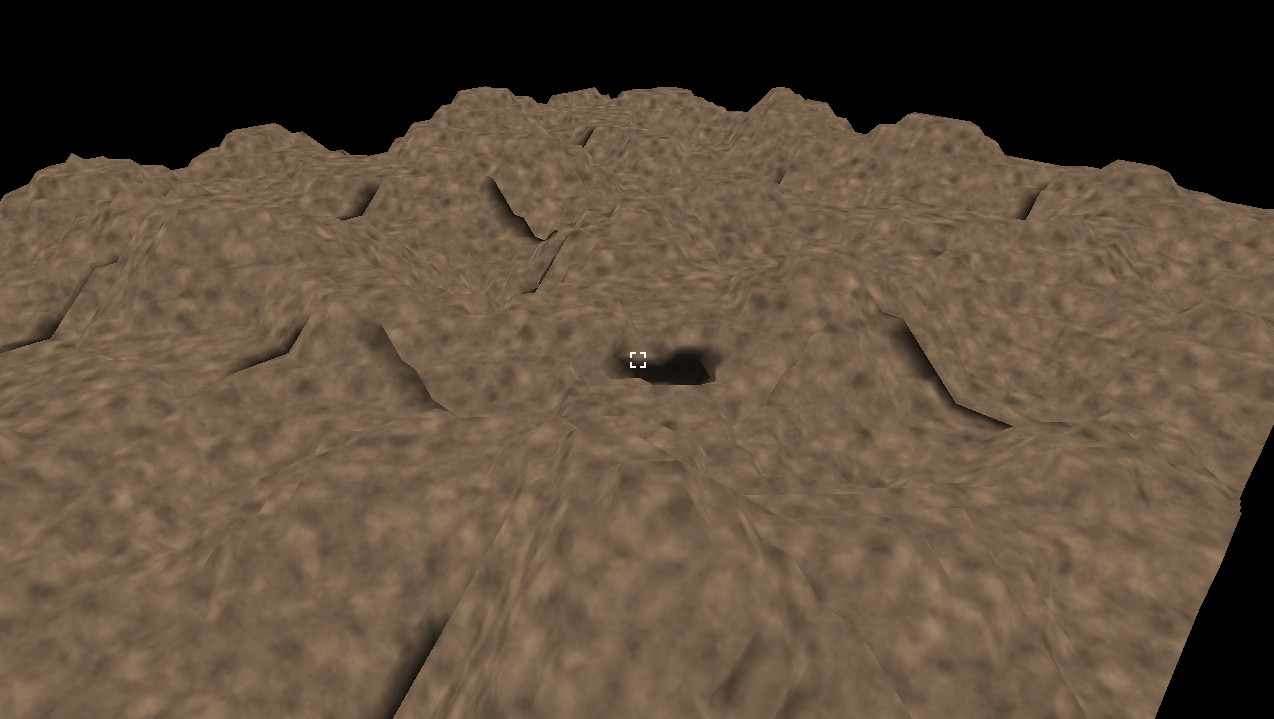
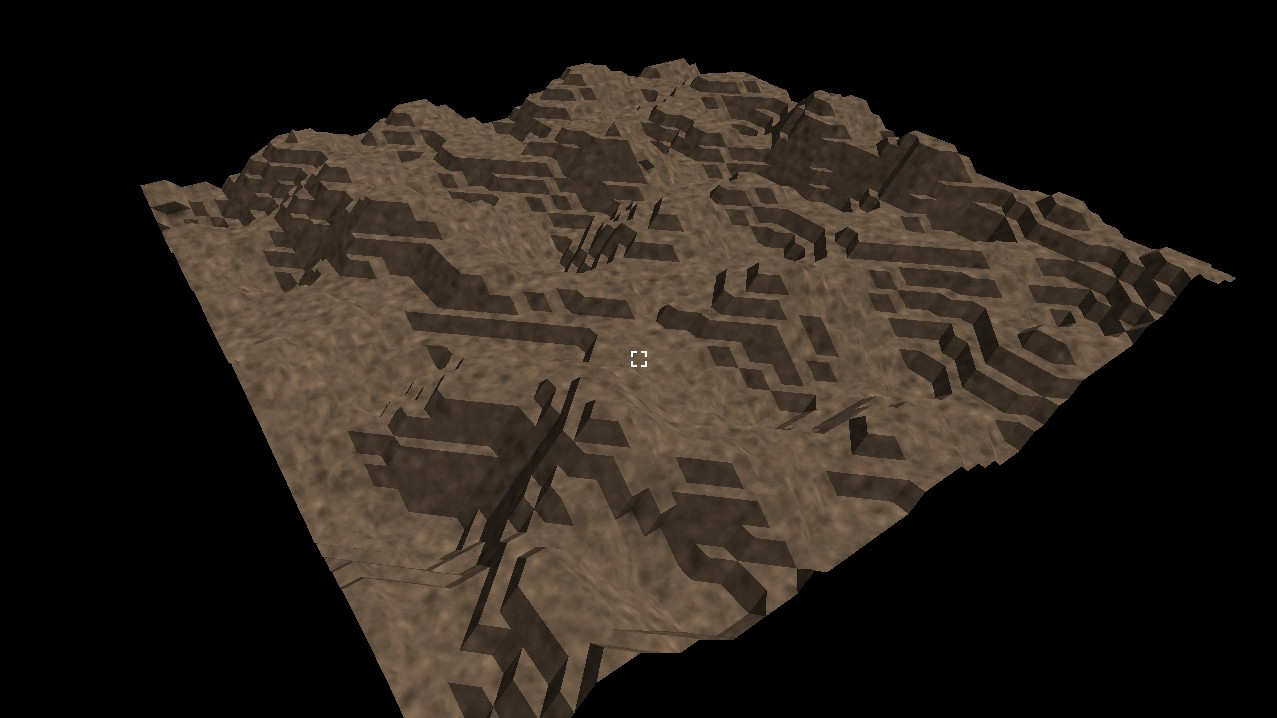
Исправлено освещение

diff --git a/SOURCE/renderer.cpp b/SOURCE/renderer.cpp
@@ -256,7 +256,10 @@ gl::Mesh* renderer::renderChunk(World* world, glm::uvec2 chunkIndex)
   if(world == nullptr)
     return nullptr;
 
-  Chunk* chunk = world->getChunk(chunkIndex);
+  Chunk* chunk  = world->getChunk(chunkIndex);
+  Chunk* chunk2 = world->getChunk(glm::uvec2(chunkIndex.x+1,chunkIndex.y));
+  Chunk* chunk3 = world->getChunk(glm::uvec2(chunkIndex.x,chunkIndex.y+1));
+  Chunk* chunk4 = world->getChunk(glm::uvec2(chunkIndex.x+1,chunkIndex.y+1));
 
   if(chunk == nullptr)
     return nullptr;
@@ -280,52 +283,39 @@ gl::Mesh* renderer::renderChunk(World* world, glm::uvec2 chunkIndex)
           index = index | ((1 << 6) & ((!!chunk->blocks[z+1][ y ][x+1].type) << 6));
           index = index | ((1 << 7) & ((!!chunk->blocks[z+1][ y ][ x ].type) << 7));
         } else
-        if(x == Chunk::WIDTH-1 && y < Chunk::WIDTH-1)
+        if(x == Chunk::WIDTH-1 && y < Chunk::WIDTH-1 && chunk2 != nullptr)
         {
-          Chunk* chunk2 = world->getChunk(glm::uvec2(chunkIndex.x+1,chunkIndex.y));
-          if(chunk2 != nullptr)
-          {
-            index = index | ((1 << 0) & ((!!chunk ->blocks[ z ][y+1][ x ].type) << 0));
-            index = index | ((1 << 1) & ((!!chunk2->blocks[ z ][y+1][ 0 ].type) << 1));
-            index = index | ((1 << 2) & ((!!chunk2->blocks[ z ][ y ][ 0 ].type) << 2));
-            index = index | ((1 << 3) & ((!!chunk ->blocks[ z ][ y ][ x ].type) << 3));
-            index = index | ((1 << 4) & ((!!chunk ->blocks[z+1][y+1][ x ].type) << 4));
-            index = index | ((1 << 5) & ((!!chunk2->blocks[z+1][y+1][ 0 ].type) << 5));
-            index = index | ((1 << 6) & ((!!chunk2->blocks[z+1][ y ][ 0 ].type) << 6));
-            index = index | ((1 << 7) & ((!!chunk ->blocks[z+1][ y ][ x ].type) << 7));
-          }
+          index = index | ((1 << 0) & ((!!chunk ->blocks[ z ][y+1][ x ].type) << 0));
+          index = index | ((1 << 1) & ((!!chunk2->blocks[ z ][y+1][ 0 ].type) << 1));
+          index = index | ((1 << 2) & ((!!chunk2->blocks[ z ][ y ][ 0 ].type) << 2));
+          index = index | ((1 << 3) & ((!!chunk ->blocks[ z ][ y ][ x ].type) << 3));
+          index = index | ((1 << 4) & ((!!chunk ->blocks[z+1][y+1][ x ].type) << 4));
+          index = index | ((1 << 5) & ((!!chunk2->blocks[z+1][y+1][ 0 ].type) << 5));
+          index = index | ((1 << 6) & ((!!chunk2->blocks[z+1][ y ][ 0 ].type) << 6));
+          index = index | ((1 << 7) & ((!!chunk ->blocks[z+1][ y ][ x ].type) << 7));
         } else
-        if(x < Chunk::WIDTH-1 && y == Chunk::WIDTH-1)
+        if(x < Chunk::WIDTH-1 && y == Chunk::WIDTH-1 && chunk3 != nullptr)
         {
-          Chunk* chunk2 = world->getChunk(glm::uvec2(chunkIndex.x,chunkIndex.y+1));
-          if(chunk2 != nullptr)
-          {
-            index = index | ((1 << 0) & ((!!chunk2->blocks[ z ][ 0 ][ x ].type) << 0));
-            index = index | ((1 << 1) & ((!!chunk2->blocks[ z ][ 0 ][x+1].type) << 1));
-            index = index | ((1 << 2) & ((!!chunk ->blocks[ z ][ y ][x+1].type) << 2));
-            index = index | ((1 << 3) & ((!!chunk ->blocks[ z ][ y ][ x ].type) << 3));
-            index = index | ((1 << 4) & ((!!chunk2->blocks[z+1][ 0 ][ x ].type) << 4));
-            index = index | ((1 << 5) & ((!!chunk2->blocks[z+1][ 0 ][x+1].type) << 5));
-            index = index | ((1 << 6) & ((!!chunk ->blocks[z+1][ y ][x+1].type) << 6));
-            index = index | ((1 << 7) & ((!!chunk ->blocks[z+1][ y ][ x ].type) << 7));
-          }
+          index = index | ((1 << 0) & ((!!chunk3->blocks[ z ][ 0 ][ x ].type) << 0));
+          index = index | ((1 << 1) & ((!!chunk3->blocks[ z ][ 0 ][x+1].type) << 1));
+          index = index | ((1 << 2) & ((!!chunk ->blocks[ z ][ y ][x+1].type) << 2));
+          index = index | ((1 << 3) & ((!!chunk ->blocks[ z ][ y ][ x ].type) << 3));
+          index = index | ((1 << 4) & ((!!chunk3->blocks[z+1][ 0 ][ x ].type) << 4));
+          index = index | ((1 << 5) & ((!!chunk3->blocks[z+1][ 0 ][x+1].type) << 5));
+          index = index | ((1 << 6) & ((!!chunk ->blocks[z+1][ y ][x+1].type) << 6));
+          index = index | ((1 << 7) & ((!!chunk ->blocks[z+1][ y ][ x ].type) << 7));
         } else
-        if(x == Chunk::WIDTH-1 && y == Chunk::WIDTH-1)
+        if(x == Chunk::WIDTH-1 && y == Chunk::WIDTH-1 &&
+           chunk2 != nullptr && chunk3 != nullptr && chunk4 != nullptr)
         {
-          Chunk* chunk2 = world->getChunk(glm::uvec2(chunkIndex.x+1,chunkIndex.y));
-          Chunk* chunk3 = world->getChunk(glm::uvec2(chunkIndex.x,chunkIndex.y+1));
-          Chunk* chunk4 = world->getChunk(glm::uvec2(chunkIndex.x+1,chunkIndex.y+1));
-          if(chunk2 != nullptr && chunk3 != nullptr && chunk4 != nullptr)
-          {
-            index = index | ((1 << 0) & ((!!chunk3->blocks[ z ][ 0 ][ x ].type) << 0));
-            index = index | ((1 << 1) & ((!!chunk4->blocks[ z ][ 0 ][ 0 ].type) << 1));
-            index = index | ((1 << 2) & ((!!chunk2->blocks[ z ][ y ][ 0 ].type) << 2));
-            index = index | ((1 << 3) & ((!!chunk ->blocks[ z ][ y ][ x ].type) << 3));
-            index = index | ((1 << 4) & ((!!chunk3->blocks[z+1][ 0 ][ x ].type) << 4));
-            index = index | ((1 << 5) & ((!!chunk4->blocks[z+1][ 0 ][ 0 ].type) << 5));
-            index = index | ((1 << 6) & ((!!chunk2->blocks[z+1][ y ][ 0 ].type) << 6));
-            index = index | ((1 << 7) & ((!!chunk ->blocks[z+1][ y ][ x ].type) << 7));
-          }
+          index = index | ((1 << 0) & ((!!chunk3->blocks[ z ][ 0 ][ x ].type) << 0));
+          index = index | ((1 << 1) & ((!!chunk4->blocks[ z ][ 0 ][ 0 ].type) << 1));
+          index = index | ((1 << 2) & ((!!chunk2->blocks[ z ][ y ][ 0 ].type) << 2));
+          index = index | ((1 << 3) & ((!!chunk ->blocks[ z ][ y ][ x ].type) << 3));
+          index = index | ((1 << 4) & ((!!chunk3->blocks[z+1][ 0 ][ x ].type) << 4));
+          index = index | ((1 << 5) & ((!!chunk4->blocks[z+1][ 0 ][ 0 ].type) << 5));
+          index = index | ((1 << 6) & ((!!chunk2->blocks[z+1][ y ][ 0 ].type) << 6));
+          index = index | ((1 << 7) & ((!!chunk ->blocks[z+1][ y ][ x ].type) << 7));
         }
 
         if((!index) || (index==255))
@@ -337,20 +327,25 @@ gl::Mesh* renderer::renderChunk(World* world, glm::uvec2 chunkIndex)
           if(vertex < 0 || vertex > 11)
             break;
 
-          vertexBuffer[vertexCount*vertexSize+0] = (Float32)x + pointsTable[vertex][0];
-          vertexBuffer[vertexCount*vertexSize+1] = (Float32)y + pointsTable[vertex][1];
-          vertexBuffer[vertexCount*vertexSize+2] = (Float32)z + pointsTable[vertex][2];
+          vertexBuffer[vertexCount*vertexSize+0] = chunkIndex.x*Chunk::WIDTH+
+                                                   (Float32)x +
+                                                   pointsTable[vertex][0];
+          vertexBuffer[vertexCount*vertexSize+1] = chunkIndex.y*Chunk::WIDTH+
+                                                   (Float32)y +
+                                                   pointsTable[vertex][1];
+          vertexBuffer[vertexCount*vertexSize+2] = (Float32)z +
+                                                   pointsTable[vertex][2];
 
           Float32 light =
-            (Float32)(
-            chunk->blocks[z+lightTable[vertex][2]]
-                         [y+lightTable[vertex][1]]
-                         [x+lightTable[vertex][0]].light+
-            chunk->blocks[z+lightTable[vertex][5]]
-                         [y+lightTable[vertex][4]]
-                         [x+lightTable[vertex][3]].light)/
-                          2.0/(Float32)Block::MAX_LIGHT;
-
+          ((Float32)(world->getBlockLight(
+            chunkIndex.x*Chunk::WIDTH+x+lightTable[vertex][0],
+            chunkIndex.y*Chunk::WIDTH+y+lightTable[vertex][1],
+            z+lightTable[vertex][2]))+
+           (Float32)(world->getBlockLight(
+            chunkIndex.x*Chunk::WIDTH+x+lightTable[vertex][3],
+            chunkIndex.y*Chunk::WIDTH+y+lightTable[vertex][4],
+            z+lightTable[vertex][5])))/
+          2.0/(Float32)Block::MAX_LIGHT;
 
           vertexBuffer[vertexCount*vertexSize+6] = light;
 

diff --git a/SOURCE/world.cpp b/SOURCE/world.cpp
@@ -13,9 +13,11 @@ Chunk::Chunk(glm::uvec2 pindex) : index(pindex)
   for(UInt32 x = 0; x < Chunk::WIDTH; x++)
     for(UInt32 y = 0; y < Chunk::WIDTH; y++)
     {
-      Float64 h = glm::perlin(glm::vec3((Float64)(x+index.x*WIDTH)*0.1,
-                                        (Float64)(y+index.y*WIDTH)*0.1,
-                                        0.0));
+      Float64 h =
+        glm::perlin(glm::vec3(
+                    (Float64)(x+index.x*WIDTH)*0.1,
+                    (Float64)(y+index.y*WIDTH)*0.1,
+                    0.0));
 
       for(UInt32 z = 0; z < Chunk::WIDTH; z++)
       {
@@ -29,7 +31,28 @@ void Chunk::setBlockType(UInt32 x, UInt32 y, UInt32 z, UInt32 type)
 {
   if( x >= 0 && x < Chunk::WIDTH &&
       y >= 0 && y < Chunk::WIDTH &&
-      z >= 0 && z < Chunk::WIDTH) blocks[z][y][x].type = type;
+      z >= 0 && z < Chunk::WIDTH )
+    blocks[z][y][x].type = type;
+}
+
+UInt32 Chunk::getBlockType (UInt32 x, UInt32 y, UInt32 z)
+{
+  if( x >= 0 && x < Chunk::WIDTH &&
+      y >= 0 && y < Chunk::WIDTH &&
+      z >= 0 && z < Chunk::WIDTH )
+    return blocks[z][y][x].type;
+
+  return 0;
+}
+
+UInt32 Chunk::getBlockLight (UInt32 x, UInt32 y, UInt32 z)
+{
+  if( x >= 0 && x < Chunk::WIDTH &&
+      y >= 0 && y < Chunk::WIDTH &&
+      z >= 0 && z < Chunk::WIDTH )
+    return blocks[z][y][x].light;
+
+  return 0;
 }
 
 void Chunk::computeLight()
@@ -54,7 +77,7 @@ void Chunk::computeLight()
 World::World()
 {
   for(UInt32 i = 0; i < World::WIDTH; ++i)
-    for (UInt32 j = 0; j < World::WIDTH; ++j)
+    for(UInt32 j = 0; j < World::WIDTH; ++j)
     {
       chunks[i][j] = nullptr;
       chunks[i][j] = new Chunk(glm::uvec2(j, i));
@@ -65,7 +88,7 @@ World::World()
 World::~World()
 {
   for(UInt32 y = 0; y < World::WIDTH; ++y)
-    for (UInt32 x = 0; x < World::WIDTH; ++x)
+    for(UInt32 x = 0; x < World::WIDTH; ++x)
     {
       //if(chunks[y][x] != nullptr)
       //  delete chunks[y][x];
@@ -76,13 +99,48 @@ void World::setBlockType(UInt32 x, UInt32 y, UInt32 z, UInt32 type)
 {
   if( x >= 0 && x < Chunk::WIDTH*World::WIDTH &&
       y >= 0 && y < Chunk::WIDTH*World::WIDTH &&
-      z >= 0 && z < Chunk::WIDTH*World::WIDTH)
-  {
-    if(chunks[y/Chunk::WIDTH][x/Chunk::WIDTH] != nullptr)
-    {
-      chunks[y/Chunk::WIDTH][x/Chunk::WIDTH]->setBlockType(x%Chunk::WIDTH,y%Chunk::WIDTH,z%Chunk::WIDTH, type);
+      z >= 0 && z < Chunk::WIDTH*World::WIDTH ) {
+    if(chunks[y/Chunk::WIDTH][x/Chunk::WIDTH] != nullptr) {
+      chunks[y/Chunk::WIDTH][x/Chunk::WIDTH]->
+        setBlockType(x%Chunk::WIDTH,
+                     y%Chunk::WIDTH,
+                     z%Chunk::WIDTH,
+                     type);
     }
   }
+}
+
+UInt32 World::getBlockType(UInt32 x, UInt32 y, UInt32 z)
+{
+  if( x >= 0 && x < Chunk::WIDTH*World::WIDTH &&
+      y >= 0 && y < Chunk::WIDTH*World::WIDTH &&
+      z >= 0 && z < Chunk::WIDTH*World::WIDTH ) {
+    if(chunks[y/Chunk::WIDTH][x/Chunk::WIDTH] != nullptr) {
+      return chunks[y/Chunk::WIDTH][x/Chunk::WIDTH]->
+          getBlockType(
+          x%Chunk::WIDTH,
+          y%Chunk::WIDTH,
+          z%Chunk::WIDTH);
+    }
+  }
+  return 0;
+}
+
+UInt32 World::getBlockLight(UInt32 x, UInt32 y, UInt32 z)
+{
+  if( x >= 0 && x < Chunk::WIDTH*World::WIDTH &&
+      y >= 0 && y < Chunk::WIDTH*World::WIDTH &&
+      z >= 0 && z < Chunk::WIDTH*World::WIDTH ) {
+    if(chunks[y/Chunk::WIDTH][x/Chunk::WIDTH] != nullptr)
+    {
+      return chunks[y/Chunk::WIDTH][x/Chunk::WIDTH]->
+        getBlockLight(
+          x%Chunk::WIDTH,
+          y%Chunk::WIDTH,
+          z%Chunk::WIDTH);
+    }
+  }
+  return 0;
 }
 
 Chunk * World::getChunk(glm::uvec2 index)

diff --git a/SOURCE/world.hpp b/SOURCE/world.hpp
@@ -18,8 +18,11 @@ public:
   static const UInt32 VOLUME = WIDTH*WIDTH*WIDTH;
   Chunk(glm::uvec2 index);
   ~Chunk();
-  void setBlockType(UInt32 x, UInt32 y, UInt32 z, UInt32 type);
-  void computeLight();
+
+  void   setBlockType (UInt32 x, UInt32 y, UInt32 z, UInt32 type);
+  UInt32 getBlockType (UInt32 x, UInt32 y, UInt32 z);
+  UInt32 getBlockLight(UInt32 x, UInt32 y, UInt32 z);
+  void   computeLight();
 
   glm::uvec2 index;
   Block blocks[WIDTH][WIDTH][WIDTH];
@@ -33,7 +36,10 @@ public:
   World();
   ~World();
 
-  void setBlockType(UInt32 x, UInt32 y, UInt32 z, UInt32 type);
+  void   setBlockType (UInt32 x, UInt32 y, UInt32 z, UInt32 type);
+  UInt32 getBlockType (UInt32 x, UInt32 y, UInt32 z);
+  UInt32 getBlockLight(UInt32 x, UInt32 y, UInt32 z);
+
   Chunk * getChunk(glm::uvec2 index);
 private:
   Chunk * chunks[World::WIDTH][World::WIDTH];

diff --git a/SOURCE/KRATER.cpp b/SOURCE/KRATER.cpp
@@ -139,10 +139,6 @@ int main()
     for(UInt32 y = 0; y < World::WIDTH; ++y)
       for(UInt32 x = 0; x < World::WIDTH; ++x)
       {
-        chunkShaderProgram->uniform<glm::mat4>("m", glm::translate(glm::mat4(1),
-                                                    glm::vec3(x*Chunk::WIDTH,
-                                                              y*Chunk::WIDTH,
-                                                              0.0)));
         chunkMeshes[y][x]->draw();
       }
 
